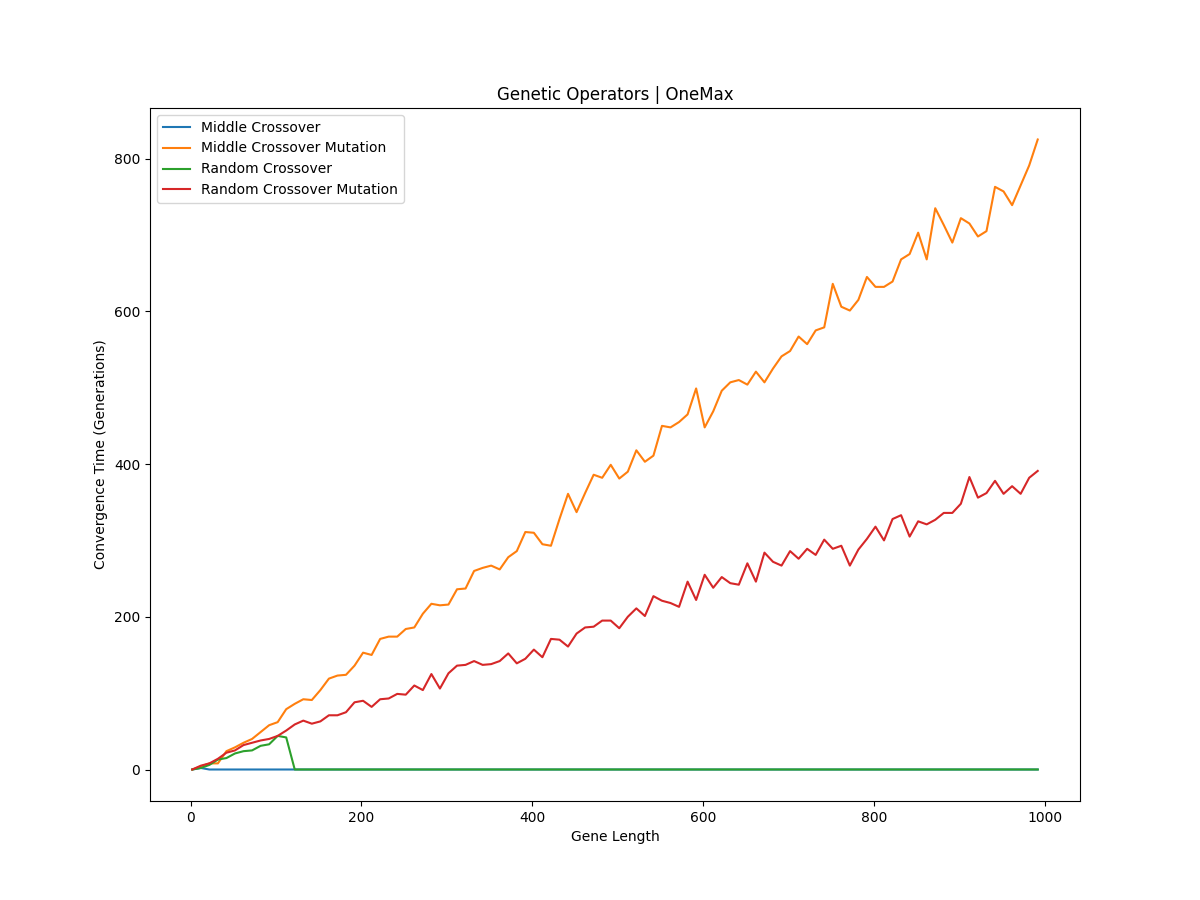
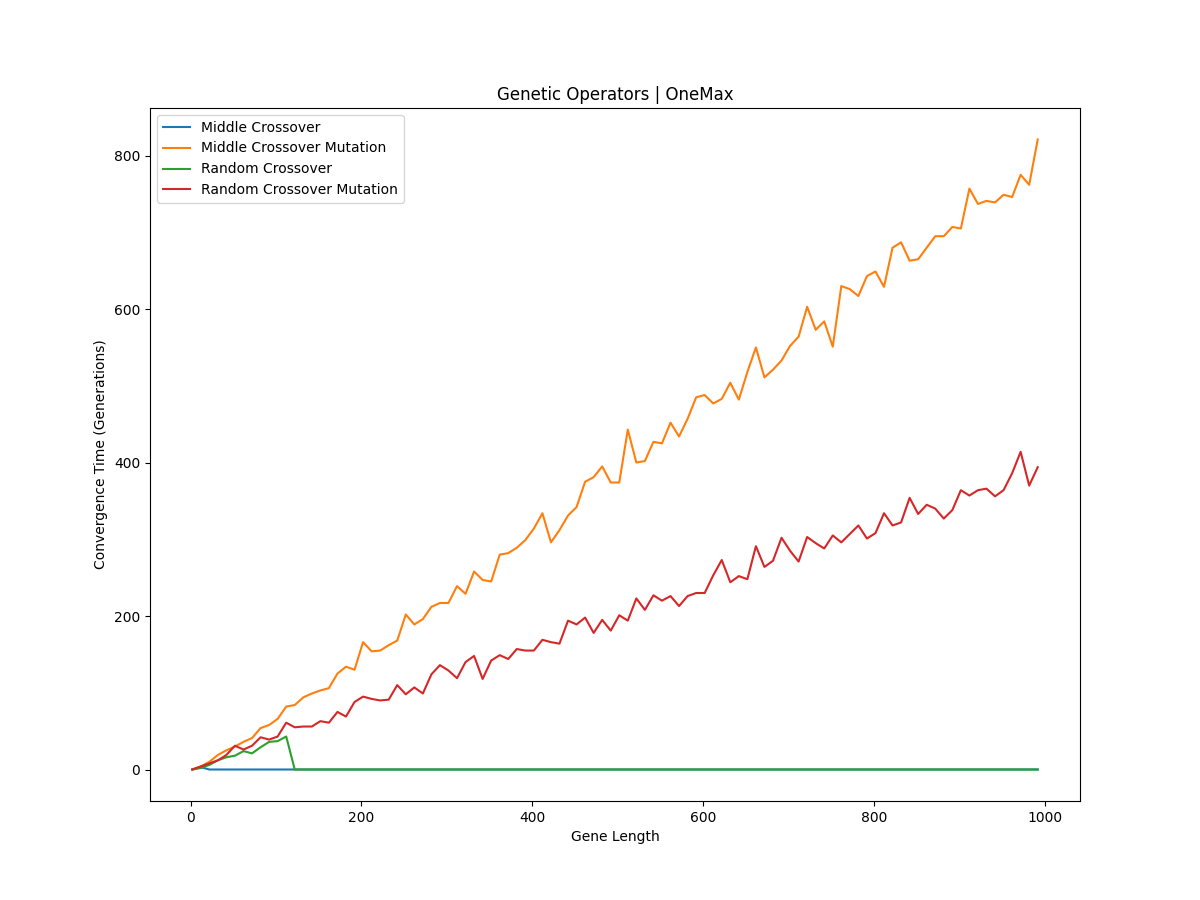
made cutoff for duplicate generations 1 instead of 100

diff --git a/genetic_evolution.py b/genetic_evolution.py
@@ -3,7 +3,7 @@ from repopulate import repopulate
 from mutate import mutate
 
 def genetic_evolution(population, perfect_chromosome, gene_split_method, gene_length, mutate_children: bool):
-    epochs, epochs_w_no_progress = 0, 0
+    epochs = 0
     population_set = set(population)
     total_1s = sum(gene.count('1') for gene in population)
     
@@ -23,8 +23,6 @@ def genetic_evolution(population, perfect_chromosome, gene_split_method, gene_le
         new_1s_count = sum(gene.count('1') for gene in population)
         
         if total_1s == new_1s_count:
-            epochs_w_no_progress += 1
-        if epochs_w_no_progress == 25:
             return 0
 
         epochs += 1
